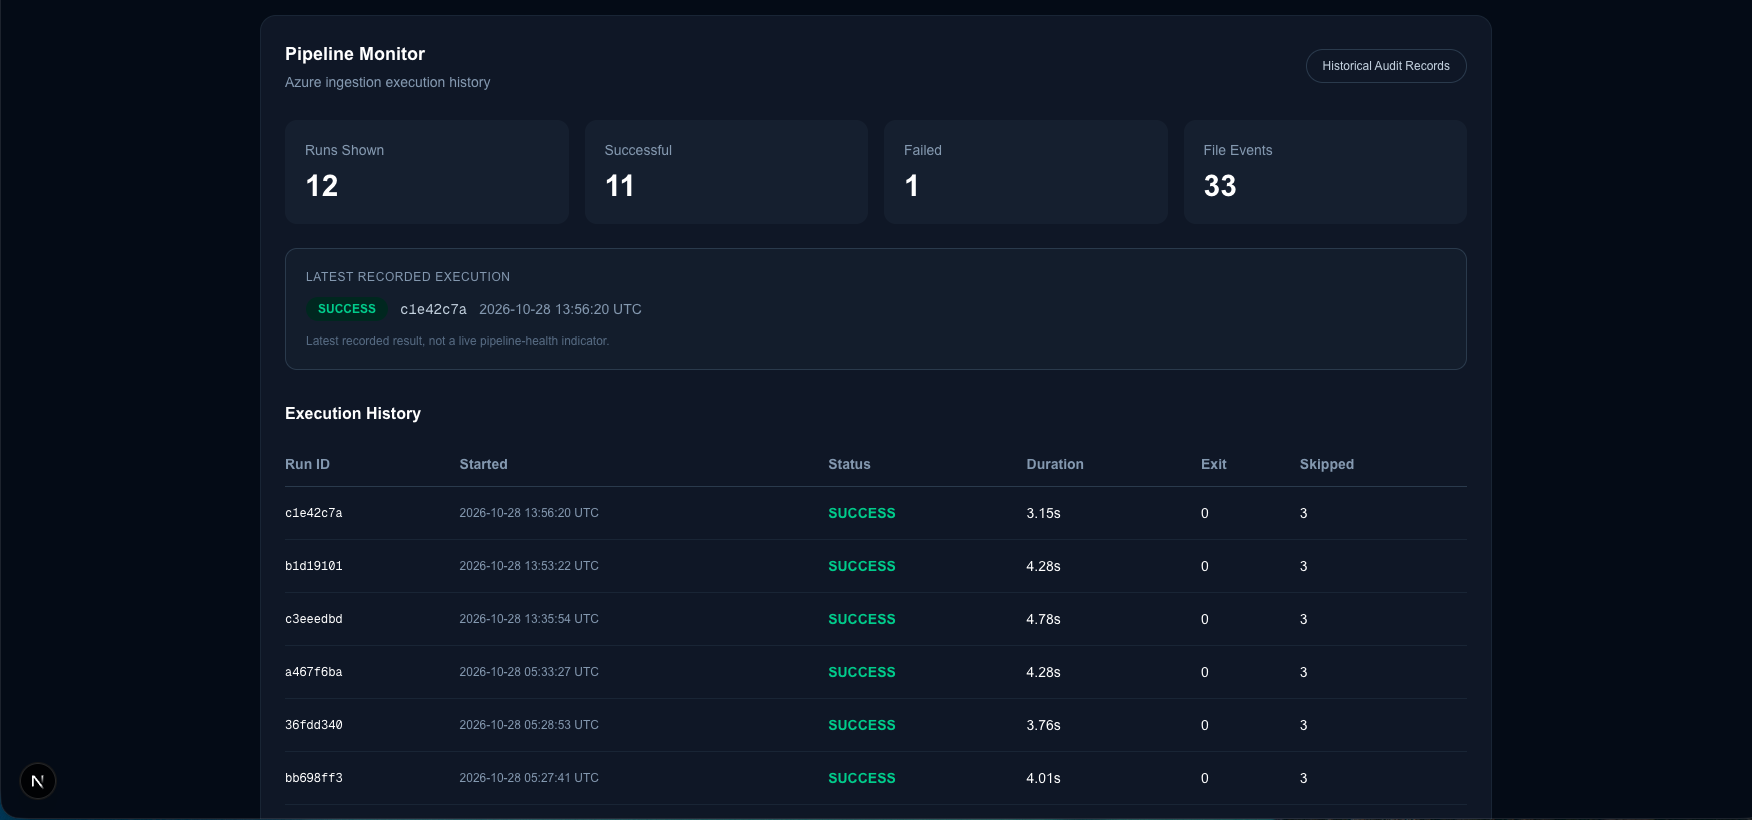
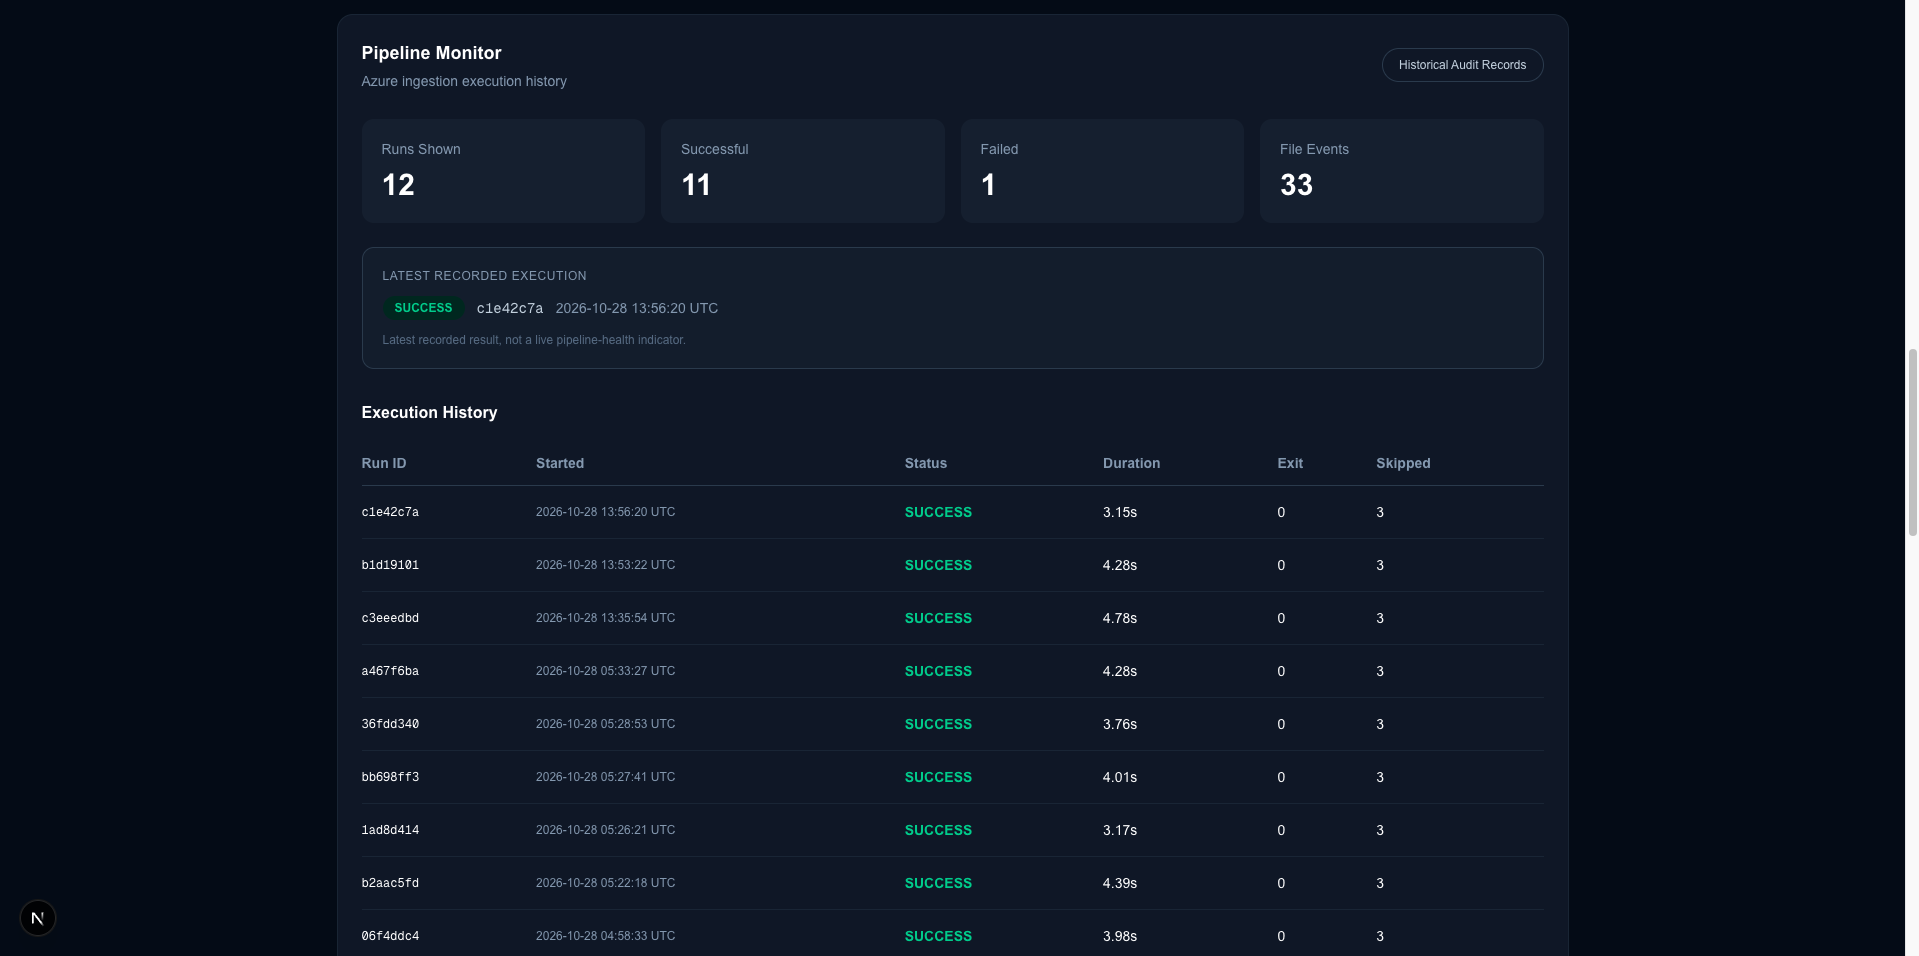
docs: add CareFlow dashboard showcase

diff --git a/README.md b/README.md
@@ -8,19 +8,20 @@ The platform processes synthetic FHIR healthcare records through Azure Data Lake
 
 ## Dashboard Preview
 
-CareFlow provides healthcare analytics and operational visibility through a Snowflake-connected dashboard.
-
 ### Healthcare Analytics
+![Healthcare Analytics](docs/screenshots/dashboard-overview.png)
 
-![CareFlow healthcare analytics overview](docs/screenshots/dashboard-overview.png)
+### Data Quality & Reconciliation
+![Data Quality Monitor](docs/screenshots/dashboard-quality.png)
 
 ### Pipeline Monitoring
+![Pipeline Monitoring](docs/screenshots/dashboard-monitoring.png)
 
-![CareFlow pipeline execution and monitoring](docs/screenshots/dashboard-monitoring.png)
+### Pipeline Freshness
+![Pipeline Freshness](docs/screenshots/dashboard-freshness.png)
 
-### Data Quality & Freshness
-
-![CareFlow data quality and freshness monitoring](docs/screenshots/dashboard-quality.png)
+### Pipeline Health
+![Pipeline Health](docs/screenshots/dashboard-health.png)
 
 ## Architecture
 
